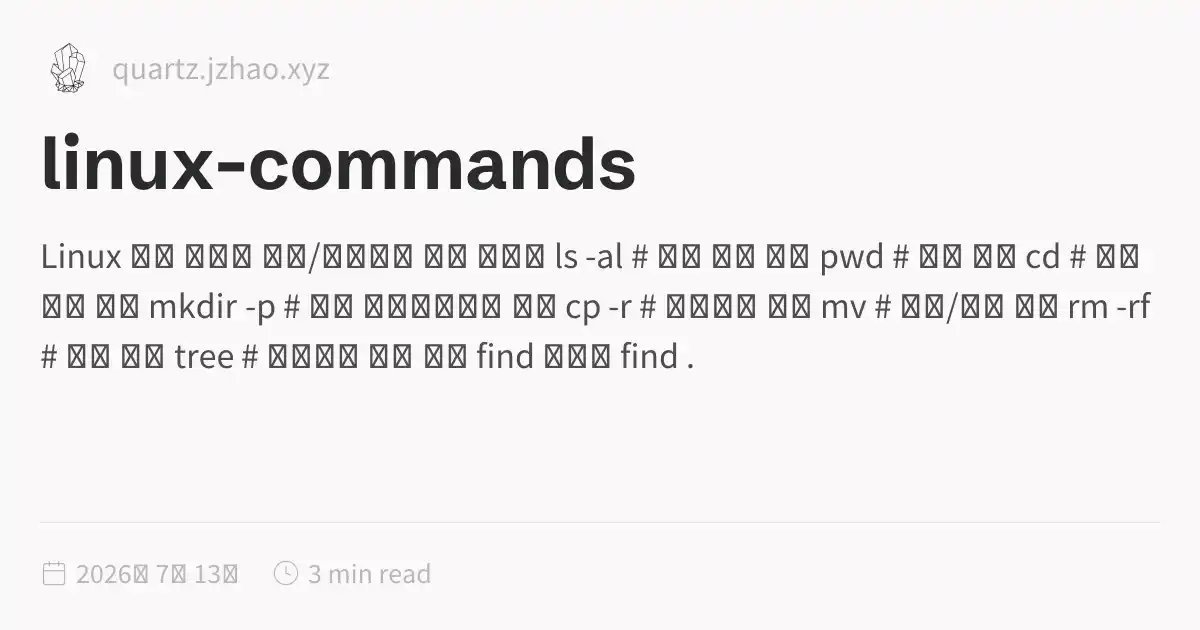
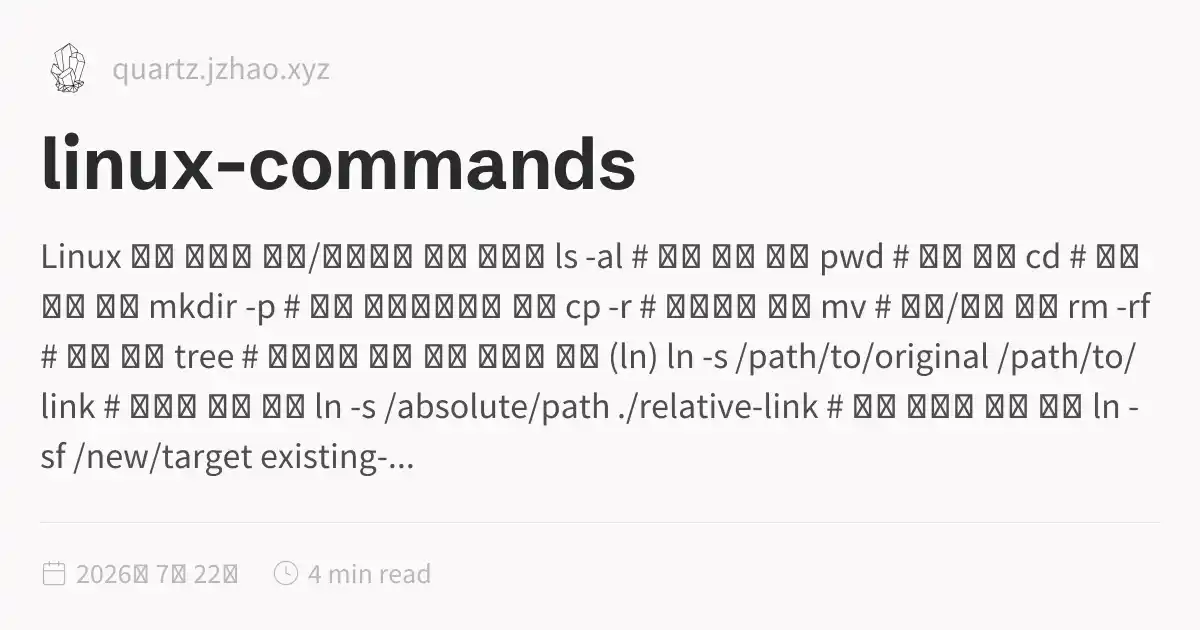
deploy: keehyun2/dev-wiki@1c47b9ac17d7b2c8128e3c860f0d961ee0c6e760

diff --git a/summaries/development/linux-commands.html b/summaries/development/linux-commands.html
@@ -1,5 +1,5 @@
 <!DOCTYPE html>
-<html lang="ko" dir="ltr"><head><title>linux-commands</title><meta charset="utf-8"/><link rel="preconnect" href="https://fonts.googleapis.com"/><link rel="preconnect" href="https://fonts.gstatic.com"/><link rel="stylesheet" href="https://fonts.googleapis.com/css2?family=Schibsted Grotesk:wght@400;700&amp;family=Source Sans Pro:ital,wght@0,400;0,600;1,400;1,600&amp;family=IBM Plex Mono:wght@400;600&amp;display=swap"/><link rel="preconnect" href="https://cdnjs.cloudflare.com" crossorigin="anonymous"/><meta name="viewport" content="width=device-width, initial-scale=1.0"/><meta name="og:site_name" content="Dev Wiki"/><meta property="og:title" content="linux-commands"/><meta property="og:type" content="website"/><meta name="twitter:card" content="summary_large_image"/><meta name="twitter:title" content="linux-commands"/><meta name="twitter:description" content="Linux 필수 명령어 파일/디렉토리 기본 명령어 ls -al # 상세 목록 보기 pwd # 현재 경로 cd # 디렉토리 이동 mkdir -p # 하위 디렉토리까지 생성 cp -r # 디렉토리 복사 mv # 이동/이름 변경 rm -rf # 강제 삭제 tree # 디렉토리 구조 보기 find 명령어 find ."/><meta property="og:description" content="Linux 필수 명령어 파일/디렉토리 기본 명령어 ls -al # 상세 목록 보기 pwd # 현재 경로 cd # 디렉토리 이동 mkdir -p # 하위 디렉토리까지 생성 cp -r # 디렉토리 복사 mv # 이동/이름 변경 rm -rf # 강제 삭제 tree # 디렉토리 구조 보기 find 명령어 find ."/><meta property="og:image:alt" content="Linux 필수 명령어 파일/디렉토리 기본 명령어 ls -al # 상세 목록 보기 pwd # 현재 경로 cd # 디렉토리 이동 mkdir -p # 하위 디렉토리까지 생성 cp -r # 디렉토리 복사 mv # 이동/이름 변경 rm -rf # 강제 삭제 tree # 디렉토리 구조 보기 find 명령어 find ."/><meta property="twitter:domain" content="quartz.jzhao.xyz"/><meta property="og:url" content="https://quartz.jzhao.xyz/summaries/development/linux-commands"/><meta property="twitter:url" content="https://quartz.jzhao.xyz/summaries/development/linux-commands"/><link rel="icon" href="../../static/icon.png"/><meta name="description" content="Linux 필수 명령어 파일/디렉토리 기본 명령어 ls -al # 상세 목록 보기 pwd # 현재 경로 cd # 디렉토리 이동 mkdir -p # 하위 디렉토리까지 생성 cp -r # 디렉토리 복사 mv # 이동/이름 변경 rm -rf # 강제 삭제 tree # 디렉토리 구조 보기 find 명령어 find ."/><meta name="generator" content="Quartz"/><link href="../../index.css" rel="stylesheet" type="text/css" data-persist="true"/><style>.expand-button {
+<html lang="ko" dir="ltr"><head><title>linux-commands</title><meta charset="utf-8"/><link rel="preconnect" href="https://fonts.googleapis.com"/><link rel="preconnect" href="https://fonts.gstatic.com"/><link rel="stylesheet" href="https://fonts.googleapis.com/css2?family=Schibsted Grotesk:wght@400;700&amp;family=Source Sans Pro:ital,wght@0,400;0,600;1,400;1,600&amp;family=IBM Plex Mono:wght@400;600&amp;display=swap"/><link rel="preconnect" href="https://cdnjs.cloudflare.com" crossorigin="anonymous"/><meta name="viewport" content="width=device-width, initial-scale=1.0"/><meta name="og:site_name" content="Dev Wiki"/><meta property="og:title" content="linux-commands"/><meta property="og:type" content="website"/><meta name="twitter:card" content="summary_large_image"/><meta name="twitter:title" content="linux-commands"/><meta name="twitter:description" content="Linux 필수 명령어 파일/디렉토리 기본 명령어 ls -al # 상세 목록 보기 pwd # 현재 경로 cd # 디렉토리 이동 mkdir -p # 하위 디렉토리까지 생성 cp -r # 디렉토리 복사 mv # 이동/이름 변경 rm -rf # 강제 삭제 tree # 디렉토리 구조 보기 심볼릭 링크 (ln) ln -s /path/to/original /path/to/link # 심볼릭 링크 생성 ln -s /absolute/path ./relative-link # 상대 경로로 링크 생성 ln -sf /new/target existing-..."/><meta property="og:description" content="Linux 필수 명령어 파일/디렉토리 기본 명령어 ls -al # 상세 목록 보기 pwd # 현재 경로 cd # 디렉토리 이동 mkdir -p # 하위 디렉토리까지 생성 cp -r # 디렉토리 복사 mv # 이동/이름 변경 rm -rf # 강제 삭제 tree # 디렉토리 구조 보기 심볼릭 링크 (ln) ln -s /path/to/original /path/to/link # 심볼릭 링크 생성 ln -s /absolute/path ./relative-link # 상대 경로로 링크 생성 ln -sf /new/target existing-..."/><meta property="og:image:alt" content="Linux 필수 명령어 파일/디렉토리 기본 명령어 ls -al # 상세 목록 보기 pwd # 현재 경로 cd # 디렉토리 이동 mkdir -p # 하위 디렉토리까지 생성 cp -r # 디렉토리 복사 mv # 이동/이름 변경 rm -rf # 강제 삭제 tree # 디렉토리 구조 보기 심볼릭 링크 (ln) ln -s /path/to/original /path/to/link # 심볼릭 링크 생성 ln -s /absolute/path ./relative-link # 상대 경로로 링크 생성 ln -sf /new/target existing-..."/><meta property="twitter:domain" content="quartz.jzhao.xyz"/><meta property="og:url" content="https://quartz.jzhao.xyz/summaries/development/linux-commands"/><meta property="twitter:url" content="https://quartz.jzhao.xyz/summaries/development/linux-commands"/><link rel="icon" href="../../static/icon.png"/><meta name="description" content="Linux 필수 명령어 파일/디렉토리 기본 명령어 ls -al # 상세 목록 보기 pwd # 현재 경로 cd # 디렉토리 이동 mkdir -p # 하위 디렉토리까지 생성 cp -r # 디렉토리 복사 mv # 이동/이름 변경 rm -rf # 강제 삭제 tree # 디렉토리 구조 보기 심볼릭 링크 (ln) ln -s /path/to/original /path/to/link # 심볼릭 링크 생성 ln -s /absolute/path ./relative-link # 상대 경로로 링크 생성 ln -sf /new/target existing-..."/><meta name="generator" content="Quartz"/><link href="../../index.css" rel="stylesheet" type="text/css" data-persist="true"/><style>.expand-button {
   position: absolute;
   display: flex;
   float: right;
@@ -115,7 +115,7 @@ pre:hover > .expand-button {
   padding: 0 12px;
   font-size: 14px;
 }
[2 lines of base64/hex data omitted]
 <h2 id="파일디렉토리">파일/디렉토리<a role="anchor" aria-hidden="true" tabindex="-1" data-no-popover="true" href="#파일디렉토리" class="internal"><svg width="18" height="18" viewBox="0 0 24 24" fill="none" stroke="currentColor" stroke-width="2" stroke-linecap="round" stroke-linejoin="round"><path d="M10 13a5 5 0 0 0 7.54.54l3-3a5 5 0 0 0-7.07-7.07l-1.72 1.71"></path><path d="M14 11a5 5 0 0 0-7.54-.54l-3 3a5 5 0 0 0 7.07 7.07l1.71-1.71"></path></svg></a></h2>
 <h3 id="기본-명령어">기본 명령어<a role="anchor" aria-hidden="true" tabindex="-1" data-no-popover="true" href="#기본-명령어" class="internal"><svg width="18" height="18" viewBox="0 0 24 24" fill="none" stroke="currentColor" stroke-width="2" stroke-linecap="round" stroke-linejoin="round"><path d="M10 13a5 5 0 0 0 7.54.54l3-3a5 5 0 0 0-7.07-7.07l-1.72 1.71"></path><path d="M14 11a5 5 0 0 0-7.54-.54l-3 3a5 5 0 0 0 7.07 7.07l1.71-1.71"></path></svg></a></h3>
 <figure data-rehype-pretty-code-figure><pre tabindex="0" data-language="bash" data-theme="github-light github-dark"><code data-language="bash" data-theme="github-light github-dark" style="display:grid;"><span data-line><span style="--shiki-light:#6F42C1;--shiki-dark:#B392F0;">ls</span><span style="--shiki-light:#005CC5;--shiki-dark:#79B8FF;"> -al</span><span style="--shiki-light:#6A737D;--shiki-dark:#6A737D;">              # 상세 목록 보기</span></span>
@@ -126,6 +126,16 @@ pre:hover > .expand-button {
 <span data-line><span style="--shiki-light:#6F42C1;--shiki-dark:#B392F0;">mv</span><span style="--shiki-light:#6A737D;--shiki-dark:#6A737D;">                  # 이동/이름 변경</span></span>
 <span data-line><span style="--shiki-light:#6F42C1;--shiki-dark:#B392F0;">rm</span><span style="--shiki-light:#005CC5;--shiki-dark:#79B8FF;"> -rf</span><span style="--shiki-light:#6A737D;--shiki-dark:#6A737D;">              # 강제 삭제</span></span>
 <span data-line><span style="--shiki-light:#6F42C1;--shiki-dark:#B392F0;">tree</span><span style="--shiki-light:#6A737D;--shiki-dark:#6A737D;">                # 디렉토리 구조 보기</span></span></code></pre></figure>
+<h3 id="심볼릭-링크-ln">심볼릭 링크 (ln)<a role="anchor" aria-hidden="true" tabindex="-1" data-no-popover="true" href="#심볼릭-링크-ln" class="internal"><svg width="18" height="18" viewBox="0 0 24 24" fill="none" stroke="currentColor" stroke-width="2" stroke-linecap="round" stroke-linejoin="round"><path d="M10 13a5 5 0 0 0 7.54.54l3-3a5 5 0 0 0-7.07-7.07l-1.72 1.71"></path><path d="M14 11a5 5 0 0 0-7.54-.54l-3 3a5 5 0 0 0 7.07 7.07l1.71-1.71"></path></svg></a></h3>
+<figure data-rehype-pretty-code-figure><pre tabindex="0" data-language="bash" data-theme="github-light github-dark"><code data-language="bash" data-theme="github-light github-dark" style="display:grid;"><span data-line><span style="--shiki-light:#6F42C1;--shiki-dark:#B392F0;">ln</span><span style="--shiki-light:#005CC5;--shiki-dark:#79B8FF;"> -s</span><span style="--shiki-light:#032F62;--shiki-dark:#9ECBFF;"> /path/to/original</span><span style="--shiki-light:#032F62;--shiki-dark:#9ECBFF;"> /path/to/link</span><span style="--shiki-light:#6A737D;--shiki-dark:#6A737D;">      # 심볼릭 링크 생성</span></span>
+<span data-line><span style="--shiki-light:#6F42C1;--shiki-dark:#B392F0;">ln</span><span style="--shiki-light:#005CC5;--shiki-dark:#79B8FF;"> -s</span><span style="--shiki-light:#032F62;--shiki-dark:#9ECBFF;"> /absolute/path</span><span style="--shiki-light:#032F62;--shiki-dark:#9ECBFF;"> ./relative-link</span><span style="--shiki-light:#6A737D;--shiki-dark:#6A737D;">      # 상대 경로로 링크 생성</span></span>
+<span data-line><span style="--shiki-light:#6F42C1;--shiki-dark:#B392F0;">ln</span><span style="--shiki-light:#005CC5;--shiki-dark:#79B8FF;"> -sf</span><span style="--shiki-light:#032F62;--shiki-dark:#9ECBFF;"> /new/target</span><span style="--shiki-light:#032F62;--shiki-dark:#9ECBFF;"> existing-link</span><span style="--shiki-light:#6A737D;--shiki-dark:#6A737D;">          # 기존 링크 강제 업데이트</span></span>
+<span data-line><span style="--shiki-light:#6F42C1;--shiki-dark:#B392F0;">ln</span><span style="--shiki-light:#005CC5;--shiki-dark:#79B8FF;"> -s</span><span style="--shiki-light:#032F62;--shiki-dark:#9ECBFF;"> /path/to/original</span><span style="--shiki-light:#032F62;--shiki-dark:#9ECBFF;"> .</span><span style="--shiki-light:#6A737D;--shiki-dark:#6A737D;">                  # 현재 디렉토리에 링크 생성</span></span></code></pre></figure>
+<p><strong>심볼릭 링크 vs 하드링크:</strong></p>
+<ul>
+<li>심볼릭 링크 (<code>ln -s</code>): 원본 파일을 가리키는 포인터, 원본 삭제시 링크는 깨짐</li>
+<li>하드링크 (<code>ln</code>): 원본과 동일한 데이터를 가리킴, 원본 삭제해도 데이터 유지</li>
+</ul>
 <h3 id="find-명령어">find 명령어<a role="anchor" aria-hidden="true" tabindex="-1" data-no-popover="true" href="#find-명령어" class="internal"><svg width="18" height="18" viewBox="0 0 24 24" fill="none" stroke="currentColor" stroke-width="2" stroke-linecap="round" stroke-linejoin="round"><path d="M10 13a5 5 0 0 0 7.54.54l3-3a5 5 0 0 0-7.07-7.07l-1.72 1.71"></path><path d="M14 11a5 5 0 0 0-7.54-.54l-3 3a5 5 0 0 0 7.07 7.07l1.71-1.71"></path></svg></a></h3>
 <figure data-rehype-pretty-code-figure><pre tabindex="0" data-language="bash" data-theme="github-light github-dark"><code data-language="bash" data-theme="github-light github-dark" style="display:grid;"><span data-line><span style="--shiki-light:#6F42C1;--shiki-dark:#B392F0;">find</span><span style="--shiki-light:#032F62;--shiki-dark:#9ECBFF;"> .</span><span style="--shiki-light:#005CC5;--shiki-dark:#79B8FF;"> -name</span><span style="--shiki-light:#032F62;--shiki-dark:#9ECBFF;"> &quot;*.cpp&quot;</span><span style="--shiki-light:#6A737D;--shiki-dark:#6A737D;">           # 파일 이름 검색</span></span>
 <span data-line><span style="--shiki-light:#6F42C1;--shiki-dark:#B392F0;">find</span><span style="--shiki-light:#032F62;--shiki-dark:#9ECBFF;"> .</span><span style="--shiki-light:#005CC5;--shiki-dark:#79B8FF;"> -type</span><span style="--shiki-light:#032F62;--shiki-dark:#9ECBFF;"> f</span><span style="--shiki-light:#6A737D;--shiki-dark:#6A737D;">                # 파일만 검색</span></span>
@@ -184,6 +194,6 @@ pre:hover > .expand-button {
                 C46.042,11.405,47.451,12,49,12c3.309,0,6-2.691,6-6S52.309,0,49,0z M11,9c0-1.103,0.897-2,2-2s2,0.897,2,2s-0.897,2-2,2
                 S11,10.103,11,9z M6,51c-2.206,0-4-1.794-4-4s1.794-4,4-4s4,1.794,4,4S8.206,51,6,51z M33,49c0,2.206-1.794,4-4,4s-4-1.794-4-4
                 s1.794-4,4-4S33,46.794,33,49z M29,31c-3.309,0-6-2.691-6-6s2.691-6,6-6s6,2.691,6,6S32.309,31,29,31z M47,41c0,1.103-0.897,2-2,2
-                s-2-0.897-2-2s0.897-2,2-2S47,39.897,47,41z M49,10c-2.206,0-4-1.794-4-4s1.794-4,4-4s4,1.794,4,4S51.206,10,49,10z"></path></svg></button></div><div class="global-graph-outer"><div class="global-graph-container" data-cfg="{&quot;drag&quot;:true,&quot;zoom&quot;:true,&quot;depth&quot;:-1,&quot;scale&quot;:0.9,&quot;repelForce&quot;:0.5,&quot;centerForce&quot;:0.2,&quot;linkDistance&quot;:30,&quot;fontSize&quot;:0.6,&quot;opacityScale&quot;:1,&quot;showTags&quot;:true,&quot;removeTags&quot;:[],&quot;focusOnHover&quot;:true,&quot;enableRadial&quot;:true}"></div></div></div><div class="toc desktop-only"><button type="button" class="toc-header" aria-controls="toc-11" aria-expanded="true"><h3>목차</h3><svg xmlns="http://www.w3.org/2000/svg" width="24" height="24" viewBox="0 0 24 24" fill="none" stroke="currentColor" stroke-width="2" stroke-linecap="round" stroke-linejoin="round" class="fold"><polyline points="6 9 12 15 18 9"></polyline></svg></button><ul id="list-1" class="toc-content overflow"><li class="depth-0"><a href="#linux-필수-명령어" data-for="linux-필수-명령어">Linux 필수 명령어</a></li><li class="depth-1"><a href="#파일디렉토리" data-for="파일디렉토리">파일/디렉토리</a></li><li class="depth-2"><a href="#기본-명령어" data-for="기본-명령어">기본 명령어</a></li><li class="depth-2"><a href="#find-명령어" data-for="find-명령어">find 명령어</a></li><li class="depth-1"><a href="#파일-내용-검색-grep" data-for="파일-내용-검색-grep">파일 내용 검색 (grep)</a></li><li class="depth-2"><a href="#주요-옵션" data-for="주요-옵션">주요 옵션</a></li><li class="depth-2"><a href="#실전-예제" data-for="실전-예제">실전 예제</a></li><li class="depth-1"><a href="#디스크-관리" data-for="디스크-관리">디스크 관리</a></li><li class="depth-1"><a href="#프로세스포트" data-for="프로세스포트">프로세스/포트</a></li><li class="depth-2"><a href="#프로세스-관리" data-for="프로세스-관리">프로세스 관리</a></li><li class="depth-2"><a href="#포트-사용-확인" data-for="포트-사용-확인">포트 사용 확인</a></li><li class="depth-1"><a href="#압축" data-for="압축">압축</a></li><li class="depth-1"><a href="#시스템-정보" data-for="시스템-정보">시스템 정보</a></li><li class="depth-1"><a href="#관련-페이지" data-for="관련-페이지">관련 페이지</a></li><li class="overflow-end"></li></ul></div></div><footer class><p>Created with <a href="https://quartz.jzhao.xyz/">Quartz v4.5.2</a> © 2026</p><ul><li><a href="https://github.com/jackyzha0/quartz">GitHub</a></li><li><a href="https://discord.gg/cRFFHYye7t">Discord Community</a></li></ul></footer></div></div></body><script type="application/javascript" data-persist="true">function n(){let t=this.parentElement;t.classList.toggle("is-collapsed");let e=t.getElementsByClassName("callout-content")[0];if(!e)return;let l=t.classList.contains("is-collapsed");e.style.gridTemplateRows=l?"0fr":"1fr"}function c(){let t=document.getElementsByClassName("callout is-collapsible");for(let e of t){let l=e.getElementsByClassName("callout-title")[0],s=e.getElementsByClassName("callout-content")[0];if(!l||!s)continue;l.addEventListener("click",n),window.addCleanup(()=>l.removeEventListener("click",n));let o=e.classList.contains("is-collapsed");s.style.gridTemplateRows=o?"0fr":"1fr"}}document.addEventListener("nav",c);
+                s-2-0.897-2-2s0.897-2,2-2S47,39.897,47,41z M49,10c-2.206,0-4-1.794-4-4s1.794-4,4-4s4,1.794,4,4S51.206,10,49,10z"></path></svg></button></div><div class="global-graph-outer"><div class="global-graph-container" data-cfg="{&quot;drag&quot;:true,&quot;zoom&quot;:true,&quot;depth&quot;:-1,&quot;scale&quot;:0.9,&quot;repelForce&quot;:0.5,&quot;centerForce&quot;:0.2,&quot;linkDistance&quot;:30,&quot;fontSize&quot;:0.6,&quot;opacityScale&quot;:1,&quot;showTags&quot;:true,&quot;removeTags&quot;:[],&quot;focusOnHover&quot;:true,&quot;enableRadial&quot;:true}"></div></div></div><div class="toc desktop-only"><button type="button" class="toc-header" aria-controls="toc-11" aria-expanded="true"><h3>목차</h3><svg xmlns="http://www.w3.org/2000/svg" width="24" height="24" viewBox="0 0 24 24" fill="none" stroke="currentColor" stroke-width="2" stroke-linecap="round" stroke-linejoin="round" class="fold"><polyline points="6 9 12 15 18 9"></polyline></svg></button><ul id="list-1" class="toc-content overflow"><li class="depth-0"><a href="#linux-필수-명령어" data-for="linux-필수-명령어">Linux 필수 명령어</a></li><li class="depth-1"><a href="#파일디렉토리" data-for="파일디렉토리">파일/디렉토리</a></li><li class="depth-2"><a href="#기본-명령어" data-for="기본-명령어">기본 명령어</a></li><li class="depth-2"><a href="#심볼릭-링크-ln" data-for="심볼릭-링크-ln">심볼릭 링크 (ln)</a></li><li class="depth-2"><a href="#find-명령어" data-for="find-명령어">find 명령어</a></li><li class="depth-1"><a href="#파일-내용-검색-grep" data-for="파일-내용-검색-grep">파일 내용 검색 (grep)</a></li><li class="depth-2"><a href="#주요-옵션" data-for="주요-옵션">주요 옵션</a></li><li class="depth-2"><a href="#실전-예제" data-for="실전-예제">실전 예제</a></li><li class="depth-1"><a href="#디스크-관리" data-for="디스크-관리">디스크 관리</a></li><li class="depth-1"><a href="#프로세스포트" data-for="프로세스포트">프로세스/포트</a></li><li class="depth-2"><a href="#프로세스-관리" data-for="프로세스-관리">프로세스 관리</a></li><li class="depth-2"><a href="#포트-사용-확인" data-for="포트-사용-확인">포트 사용 확인</a></li><li class="depth-1"><a href="#압축" data-for="압축">압축</a></li><li class="depth-1"><a href="#시스템-정보" data-for="시스템-정보">시스템 정보</a></li><li class="depth-1"><a href="#관련-페이지" data-for="관련-페이지">관련 페이지</a></li><li class="overflow-end"></li></ul></div></div><footer class><p>Created with <a href="https://quartz.jzhao.xyz/">Quartz v4.5.2</a> © 2026</p><ul><li><a href="https://github.com/jackyzha0/quartz">GitHub</a></li><li><a href="https://discord.gg/cRFFHYye7t">Discord Community</a></li></ul></footer></div></div></body><script type="application/javascript" data-persist="true">function n(){let t=this.parentElement;t.classList.toggle("is-collapsed");let e=t.getElementsByClassName("callout-content")[0];if(!e)return;let l=t.classList.contains("is-collapsed");e.style.gridTemplateRows=l?"0fr":"1fr"}function c(){let t=document.getElementsByClassName("callout is-collapsible");for(let e of t){let l=e.getElementsByClassName("callout-title")[0],s=e.getElementsByClassName("callout-content")[0];if(!l||!s)continue;l.addEventListener("click",n),window.addCleanup(()=>l.removeEventListener("click",n));let o=e.classList.contains("is-collapsed");s.style.gridTemplateRows=o?"0fr":"1fr"}}document.addEventListener("nav",c);
 </script><script type="module" data-persist="true">function E(a,e){if(!a)return;function t(o){o.target===this&&(o.preventDefault(),o.stopPropagation(),e())}function n(o){o.key.startsWith("Esc")&&(o.preventDefault(),e())}a?.addEventListener("click",t),window.addCleanup(()=>a?.removeEventListener("click",t)),document.addEventListener("keydown",n),window.addCleanup(()=>document.removeEventListener("keydown",n))}function f(a){for(;a.firstChild;)a.removeChild(a.firstChild)}var m=class{constructor(e,t){this.container=e;this.content=t;this.setupEventListeners(),this.setupNavigationControls(),this.resetTransform()}isDragging=!1;startPan={x:0,y:0};currentPan={x:0,y:0};scale=1;MIN_SCALE=.5;MAX_SCALE=3;cleanups=[];setupEventListeners(){let e=this.onMouseDown.bind(this),t=this.onMouseMove.bind(this),n=this.onMouseUp.bind(this),o=this.onTouchStart.bind(this),r=this.onTouchMove.bind(this),i=this.onTouchEnd.bind(this),s=this.resetTransform.bind(this);this.container.addEventListener("mousedown",e),document.addEventListener("mousemove",t),document.addEventListener("mouseup",n),this.container.addEventListener("touchstart",o,{passive:!1}),document.addEventListener("touchmove",r,{passive:!1}),document.addEventListener("touchend",i),window.addEventListener("resize",s),this.cleanups.push(()=>this.container.removeEventListener("mousedown",e),()=>document.removeEventListener("mousemove",t),()=>document.removeEventListener("mouseup",n),()=>this.container.removeEventListener("touchstart",o),()=>document.removeEventListener("touchmove",r),()=>document.removeEventListener("touchend",i),()=>window.removeEventListener("resize",s))}cleanup(){for(let e of this.cleanups)e()}setupNavigationControls(){let e=document.createElement("div");e.className="mermaid-controls";let t=this.createButton("+",()=>this.zoom(.1)),n=this.createButton("-",()=>this.zoom(-.1)),o=this.createButton("Reset",()=>this.resetTransform());e.appendChild(n),e.appendChild(o),e.appendChild(t),this.container.appendChild(e)}createButton(e,t){let n=document.createElement("button");return n.textContent=e,n.className="mermaid-control-button",n.addEventListener("click",t),window.addCleanup(()=>n.removeEventListener("click",t)),n}onMouseDown(e){e.button===0&&(this.isDragging=!0,this.startPan={x:e.clientX-this.currentPan.x,y:e.clientY-this.currentPan.y},this.container.style.cursor="grabbing")}onMouseMove(e){this.isDragging&&(e.preventDefault(),this.currentPan={x:e.clientX-this.startPan.x,y:e.clientY-this.startPan.y},this.updateTransform())}onMouseUp(){this.isDragging=!1,this.container.style.cursor="grab"}onTouchStart(e){if(e.touches.length!==1)return;this.isDragging=!0;let t=e.touches[0];this.startPan={x:t.clientX-this.currentPan.x,y:t.clientY-this.currentPan.y}}onTouchMove(e){if(!this.isDragging||e.touches.length!==1)return;e.preventDefault();let t=e.touches[0];this.currentPan={x:t.clientX-this.startPan.x,y:t.clientY-this.startPan.y},this.updateTransform()}onTouchEnd(){this.isDragging=!1}zoom(e){let t=Math.min(Math.max(this.scale+e,this.MIN_SCALE),this.MAX_SCALE),n=this.content.getBoundingClientRect(),o=n.width/2,r=n.height/2,i=t-this.scale;this.currentPan.x-=o*i,this.currentPan.y-=r*i,this.scale=t,this.updateTransform()}updateTransform(){this.content.style.transform=`translate(${this.currentPan.x}px, ${this.currentPan.y}px) scale(${this.scale})`}resetTransform(){let t=this.content.querySelector("svg").getBoundingClientRect(),n=t.width/this.scale,o=t.height/this.scale;this.scale=1,this.currentPan={x:(this.container.clientWidth-n)/2,y:(this.container.clientHeight-o)/2},this.updateTransform()}},T=["--secondary","--tertiary","--gray","--light","--lightgray","--highlight","--dark","--darkgray","--codeFont"],y;document.addEventListener("nav",async()=>{let e=document.querySelector(".center").querySelectorAll("code.mermaid");if(e.length===0)return;y||=await import("https://cdnjs.cloudflare.com/ajax/libs/mermaid/11.4.0/mermaid.esm.min.mjs");let t=y.default,n=new WeakMap;for(let r of e)n.set(r,r.innerText);async function o(){for(let s of e){s.removeAttribute("data-processed");let c=n.get(s);c&&(s.innerHTML=c)}let r=T.reduce((s,c)=>(s[c]=window.getComputedStyle(document.documentElement).getPropertyValue(c),s),{}),i=document.documentElement.getAttribute("saved-theme")==="dark";t.initialize({startOnLoad:!1,securityLevel:"loose",theme:i?"dark":"base",themeVariables:{fontFamily:r["--codeFont"],primaryColor:r["--light"],primaryTextColor:r["--darkgray"],primaryBorderColor:r["--tertiary"],lineColor:r["--darkgray"],secondaryColor:r["--secondary"],tertiaryColor:r["--tertiary"],clusterBkg:r["--light"],edgeLabelBackground:r["--highlight"]}}),await t.run({nodes:e})}await o(),document.addEventListener("themechange",o),window.addCleanup(()=>document.removeEventListener("themechange",o));for(let r=0;r<e.length;r++){let v=function(){let g=l.querySelector("#mermaid-space"),h=l.querySelector(".mermaid-content");if(!h)return;f(h);let w=i.querySelector("svg").cloneNode(!0);h.appendChild(w),l.classList.add("active"),g.style.cursor="grab",u=new m(g,h)},M=function(){l.classList.remove("active"),u?.cleanup(),u=null},i=e[r],s=i.parentElement,c=s.querySelector(".clipboard-button"),d=s.querySelector(".expand-button"),p=window.getComputedStyle(c),L=c.offsetWidth+parseFloat(p.marginLeft||"0")+parseFloat(p.marginRight||"0");d.style.right=`calc(${L}px + 0.3rem)`,s.prepend(d);let l=s.querySelector("#mermaid-container");if(!l)return;let u=null;d.addEventListener("click",v),E(l,M),window.addCleanup(()=>{u?.cleanup(),d.removeEventListener("click",v)})}});
 </script><script src="https://cdn.jsdelivr.net/npm/katex@0.16.11/dist/contrib/copy-tex.min.js" type="application/javascript" data-persist="true"></script><script src="../../postscript.js" type="module" data-persist="true"></script></html>

diff --git a/summaries/development/index.html b/summaries/development/index.html
@@ -115,6 +115,6 @@ pre:hover > .expand-button {
   padding: 0 12px;
   font-size: 14px;
 }
[2 lines of base64/hex data omitted]
 </script><script type="module" data-persist="true">function E(a,e){if(!a)return;function t(o){o.target===this&&(o.preventDefault(),o.stopPropagation(),e())}function n(o){o.key.startsWith("Esc")&&(o.preventDefault(),e())}a?.addEventListener("click",t),window.addCleanup(()=>a?.removeEventListener("click",t)),document.addEventListener("keydown",n),window.addCleanup(()=>document.removeEventListener("keydown",n))}function f(a){for(;a.firstChild;)a.removeChild(a.firstChild)}var m=class{constructor(e,t){this.container=e;this.content=t;this.setupEventListeners(),this.setupNavigationControls(),this.resetTransform()}isDragging=!1;startPan={x:0,y:0};currentPan={x:0,y:0};scale=1;MIN_SCALE=.5;MAX_SCALE=3;cleanups=[];setupEventListeners(){let e=this.onMouseDown.bind(this),t=this.onMouseMove.bind(this),n=this.onMouseUp.bind(this),o=this.onTouchStart.bind(this),r=this.onTouchMove.bind(this),i=this.onTouchEnd.bind(this),s=this.resetTransform.bind(this);this.container.addEventListener("mousedown",e),document.addEventListener("mousemove",t),document.addEventListener("mouseup",n),this.container.addEventListener("touchstart",o,{passive:!1}),document.addEventListener("touchmove",r,{passive:!1}),document.addEventListener("touchend",i),window.addEventListener("resize",s),this.cleanups.push(()=>this.container.removeEventListener("mousedown",e),()=>document.removeEventListener("mousemove",t),()=>document.removeEventListener("mouseup",n),()=>this.container.removeEventListener("touchstart",o),()=>document.removeEventListener("touchmove",r),()=>document.removeEventListener("touchend",i),()=>window.removeEventListener("resize",s))}cleanup(){for(let e of this.cleanups)e()}setupNavigationControls(){let e=document.createElement("div");e.className="mermaid-controls";let t=this.createButton("+",()=>this.zoom(.1)),n=this.createButton("-",()=>this.zoom(-.1)),o=this.createButton("Reset",()=>this.resetTransform());e.appendChild(n),e.appendChild(o),e.appendChild(t),this.container.appendChild(e)}createButton(e,t){let n=document.createElement("button");return n.textContent=e,n.className="mermaid-control-button",n.addEventListener("click",t),window.addCleanup(()=>n.removeEventListener("click",t)),n}onMouseDown(e){e.button===0&&(this.isDragging=!0,this.startPan={x:e.clientX-this.currentPan.x,y:e.clientY-this.currentPan.y},this.container.style.cursor="grabbing")}onMouseMove(e){this.isDragging&&(e.preventDefault(),this.currentPan={x:e.clientX-this.startPan.x,y:e.clientY-this.startPan.y},this.updateTransform())}onMouseUp(){this.isDragging=!1,this.container.style.cursor="grab"}onTouchStart(e){if(e.touches.length!==1)return;this.isDragging=!0;let t=e.touches[0];this.startPan={x:t.clientX-this.currentPan.x,y:t.clientY-this.currentPan.y}}onTouchMove(e){if(!this.isDragging||e.touches.length!==1)return;e.preventDefault();let t=e.touches[0];this.currentPan={x:t.clientX-this.startPan.x,y:t.clientY-this.startPan.y},this.updateTransform()}onTouchEnd(){this.isDragging=!1}zoom(e){let t=Math.min(Math.max(this.scale+e,this.MIN_SCALE),this.MAX_SCALE),n=this.content.getBoundingClientRect(),o=n.width/2,r=n.height/2,i=t-this.scale;this.currentPan.x-=o*i,this.currentPan.y-=r*i,this.scale=t,this.updateTransform()}updateTransform(){this.content.style.transform=`translate(${this.currentPan.x}px, ${this.currentPan.y}px) scale(${this.scale})`}resetTransform(){let t=this.content.querySelector("svg").getBoundingClientRect(),n=t.width/this.scale,o=t.height/this.scale;this.scale=1,this.currentPan={x:(this.container.clientWidth-n)/2,y:(this.container.clientHeight-o)/2},this.updateTransform()}},T=["--secondary","--tertiary","--gray","--light","--lightgray","--highlight","--dark","--darkgray","--codeFont"],y;document.addEventListener("nav",async()=>{let e=document.querySelector(".center").querySelectorAll("code.mermaid");if(e.length===0)return;y||=await import("https://cdnjs.cloudflare.com/ajax/libs/mermaid/11.4.0/mermaid.esm.min.mjs");let t=y.default,n=new WeakMap;for(let r of e)n.set(r,r.innerText);async function o(){for(let s of e){s.removeAttribute("data-processed");let c=n.get(s);c&&(s.innerHTML=c)}let r=T.reduce((s,c)=>(s[c]=window.getComputedStyle(document.documentElement).getPropertyValue(c),s),{}),i=document.documentElement.getAttribute("saved-theme")==="dark";t.initialize({startOnLoad:!1,securityLevel:"loose",theme:i?"dark":"base",themeVariables:{fontFamily:r["--codeFont"],primaryColor:r["--light"],primaryTextColor:r["--darkgray"],primaryBorderColor:r["--tertiary"],lineColor:r["--darkgray"],secondaryColor:r["--secondary"],tertiaryColor:r["--tertiary"],clusterBkg:r["--light"],edgeLabelBackground:r["--highlight"]}}),await t.run({nodes:e})}await o(),document.addEventListener("themechange",o),window.addCleanup(()=>document.removeEventListener("themechange",o));for(let r=0;r<e.length;r++){let v=function(){let g=l.querySelector("#mermaid-space"),h=l.querySelector(".mermaid-content");if(!h)return;f(h);let w=i.querySelector("svg").cloneNode(!0);h.appendChild(w),l.classList.add("active"),g.style.cursor="grab",u=new m(g,h)},M=function(){l.classList.remove("active"),u?.cleanup(),u=null},i=e[r],s=i.parentElement,c=s.querySelector(".clipboard-button"),d=s.querySelector(".expand-button"),p=window.getComputedStyle(c),L=c.offsetWidth+parseFloat(p.marginLeft||"0")+parseFloat(p.marginRight||"0");d.style.right=`calc(${L}px + 0.3rem)`,s.prepend(d);let l=s.querySelector("#mermaid-container");if(!l)return;let u=null;d.addEventListener("click",v),E(l,M),window.addCleanup(()=>{u?.cleanup(),d.removeEventListener("click",v)})}});
 </script><script src="https://cdn.jsdelivr.net/npm/katex@0.16.11/dist/contrib/copy-tex.min.js" type="application/javascript" data-persist="true"></script><script src="../../postscript.js" type="module" data-persist="true"></script></html>

diff --git a/summaries/index.html b/summaries/index.html
@@ -115,6 +115,6 @@ pre:hover > .expand-button {
   padding: 0 12px;
   font-size: 14px;
 }
[2 lines of base64/hex data omitted]
 </script><script type="module" data-persist="true">function E(a,e){if(!a)return;function t(o){o.target===this&&(o.preventDefault(),o.stopPropagation(),e())}function n(o){o.key.startsWith("Esc")&&(o.preventDefault(),e())}a?.addEventListener("click",t),window.addCleanup(()=>a?.removeEventListener("click",t)),document.addEventListener("keydown",n),window.addCleanup(()=>document.removeEventListener("keydown",n))}function f(a){for(;a.firstChild;)a.removeChild(a.firstChild)}var m=class{constructor(e,t){this.container=e;this.content=t;this.setupEventListeners(),this.setupNavigationControls(),this.resetTransform()}isDragging=!1;startPan={x:0,y:0};currentPan={x:0,y:0};scale=1;MIN_SCALE=.5;MAX_SCALE=3;cleanups=[];setupEventListeners(){let e=this.onMouseDown.bind(this),t=this.onMouseMove.bind(this),n=this.onMouseUp.bind(this),o=this.onTouchStart.bind(this),r=this.onTouchMove.bind(this),i=this.onTouchEnd.bind(this),s=this.resetTransform.bind(this);this.container.addEventListener("mousedown",e),document.addEventListener("mousemove",t),document.addEventListener("mouseup",n),this.container.addEventListener("touchstart",o,{passive:!1}),document.addEventListener("touchmove",r,{passive:!1}),document.addEventListener("touchend",i),window.addEventListener("resize",s),this.cleanups.push(()=>this.container.removeEventListener("mousedown",e),()=>document.removeEventListener("mousemove",t),()=>document.removeEventListener("mouseup",n),()=>this.container.removeEventListener("touchstart",o),()=>document.removeEventListener("touchmove",r),()=>document.removeEventListener("touchend",i),()=>window.removeEventListener("resize",s))}cleanup(){for(let e of this.cleanups)e()}setupNavigationControls(){let e=document.createElement("div");e.className="mermaid-controls";let t=this.createButton("+",()=>this.zoom(.1)),n=this.createButton("-",()=>this.zoom(-.1)),o=this.createButton("Reset",()=>this.resetTransform());e.appendChild(n),e.appendChild(o),e.appendChild(t),this.container.appendChild(e)}createButton(e,t){let n=document.createElement("button");return n.textContent=e,n.className="mermaid-control-button",n.addEventListener("click",t),window.addCleanup(()=>n.removeEventListener("click",t)),n}onMouseDown(e){e.button===0&&(this.isDragging=!0,this.startPan={x:e.clientX-this.currentPan.x,y:e.clientY-this.currentPan.y},this.container.style.cursor="grabbing")}onMouseMove(e){this.isDragging&&(e.preventDefault(),this.currentPan={x:e.clientX-this.startPan.x,y:e.clientY-this.startPan.y},this.updateTransform())}onMouseUp(){this.isDragging=!1,this.container.style.cursor="grab"}onTouchStart(e){if(e.touches.length!==1)return;this.isDragging=!0;let t=e.touches[0];this.startPan={x:t.clientX-this.currentPan.x,y:t.clientY-this.currentPan.y}}onTouchMove(e){if(!this.isDragging||e.touches.length!==1)return;e.preventDefault();let t=e.touches[0];this.currentPan={x:t.clientX-this.startPan.x,y:t.clientY-this.startPan.y},this.updateTransform()}onTouchEnd(){this.isDragging=!1}zoom(e){let t=Math.min(Math.max(this.scale+e,this.MIN_SCALE),this.MAX_SCALE),n=this.content.getBoundingClientRect(),o=n.width/2,r=n.height/2,i=t-this.scale;this.currentPan.x-=o*i,this.currentPan.y-=r*i,this.scale=t,this.updateTransform()}updateTransform(){this.content.style.transform=`translate(${this.currentPan.x}px, ${this.currentPan.y}px) scale(${this.scale})`}resetTransform(){let t=this.content.querySelector("svg").getBoundingClientRect(),n=t.width/this.scale,o=t.height/this.scale;this.scale=1,this.currentPan={x:(this.container.clientWidth-n)/2,y:(this.container.clientHeight-o)/2},this.updateTransform()}},T=["--secondary","--tertiary","--gray","--light","--lightgray","--highlight","--dark","--darkgray","--codeFont"],y;document.addEventListener("nav",async()=>{let e=document.querySelector(".center").querySelectorAll("code.mermaid");if(e.length===0)return;y||=await import("https://cdnjs.cloudflare.com/ajax/libs/mermaid/11.4.0/mermaid.esm.min.mjs");let t=y.default,n=new WeakMap;for(let r of e)n.set(r,r.innerText);async function o(){for(let s of e){s.removeAttribute("data-processed");let c=n.get(s);c&&(s.innerHTML=c)}let r=T.reduce((s,c)=>(s[c]=window.getComputedStyle(document.documentElement).getPropertyValue(c),s),{}),i=document.documentElement.getAttribute("saved-theme")==="dark";t.initialize({startOnLoad:!1,securityLevel:"loose",theme:i?"dark":"base",themeVariables:{fontFamily:r["--codeFont"],primaryColor:r["--light"],primaryTextColor:r["--darkgray"],primaryBorderColor:r["--tertiary"],lineColor:r["--darkgray"],secondaryColor:r["--secondary"],tertiaryColor:r["--tertiary"],clusterBkg:r["--light"],edgeLabelBackground:r["--highlight"]}}),await t.run({nodes:e})}await o(),document.addEventListener("themechange",o),window.addCleanup(()=>document.removeEventListener("themechange",o));for(let r=0;r<e.length;r++){let v=function(){let g=l.querySelector("#mermaid-space"),h=l.querySelector(".mermaid-content");if(!h)return;f(h);let w=i.querySelector("svg").cloneNode(!0);h.appendChild(w),l.classList.add("active"),g.style.cursor="grab",u=new m(g,h)},M=function(){l.classList.remove("active"),u?.cleanup(),u=null},i=e[r],s=i.parentElement,c=s.querySelector(".clipboard-button"),d=s.querySelector(".expand-button"),p=window.getComputedStyle(c),L=c.offsetWidth+parseFloat(p.marginLeft||"0")+parseFloat(p.marginRight||"0");d.style.right=`calc(${L}px + 0.3rem)`,s.prepend(d);let l=s.querySelector("#mermaid-container");if(!l)return;let u=null;d.addEventListener("click",v),E(l,M),window.addCleanup(()=>{u?.cleanup(),d.removeEventListener("click",v)})}});
 </script><script src="https://cdn.jsdelivr.net/npm/katex@0.16.11/dist/contrib/copy-tex.min.js" type="application/javascript" data-persist="true"></script><script src="../postscript.js" type="module" data-persist="true"></script></html>